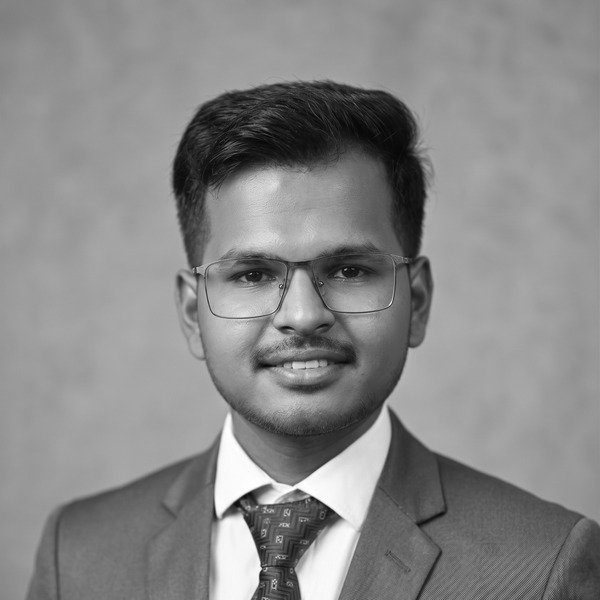
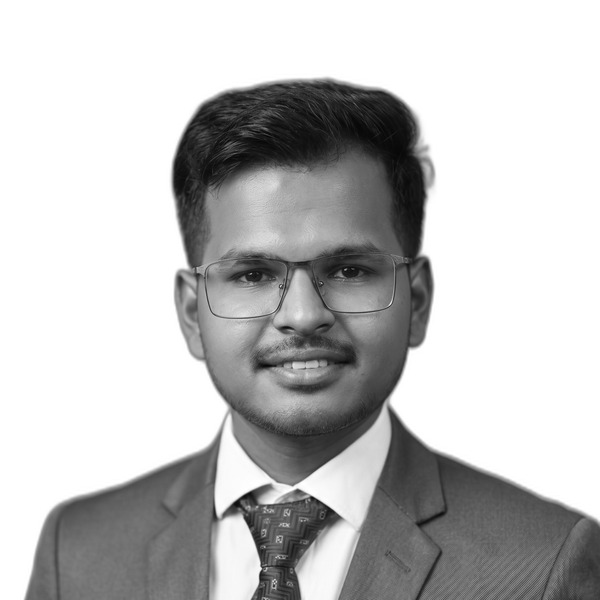
content: split 2022 journey milestones; remove Rajat photo bg
- About journey: Soonicorn Ventures and M&A Advisory are two distinct
  things, not a coupled launch. Split into two separate milestone
  entries under 2022, each with its own pill ('Investing' /
  'M&A Advisory'). Soonicorn micro now reads as standalone capital
  arm; M&A entry uses the Nucleus mark and stands on its own as a
  service addition to the firm.
- Rajat Singla headshot: remove studio backdrop via rembg, composite
  onto pure white, then grayscale + square crop — now matches the
  Pravesh / Ashish white-bg B&W convention.

diff --git a/apps/web/src/components/about/about-journey.tsx b/apps/web/src/components/about/about-journey.tsx
@@ -84,9 +84,21 @@ const ENTRIES: JourneyEntry[] = [
       logoSrc: '/brand/soonicorn-ventures.png',
       logoAlt: 'Soonicorn Ventures',
       title: 'Soonicorn Ventures launches — the investing arm of the firm.',
-      micro: 'Brings M&A Advisory to Nucleus — buy-side, sell-side and restructuring.',
+      micro: 'Seed and pre-Series A capital, alongside the advisory practice.',
     },
-    pills: ['Investing', 'M&A Advisory'],
+    pills: ['Investing'],
+  },
+  {
+    year: '2022',
+    yearIsCont: true,
+    milestone: {
+      key: 'ma-advisory-added',
+      logoSrc: '/brand/nucleus-mark.png',
+      logoAlt: 'Nucleus Advisors',
+      title: 'M&A Advisory enters the firm.',
+      micro: 'Buy-side, sell-side, restructuring and succession mandates.',
+    },
+    pills: ['M&A Advisory'],
   },
   {
     year: '2022',
